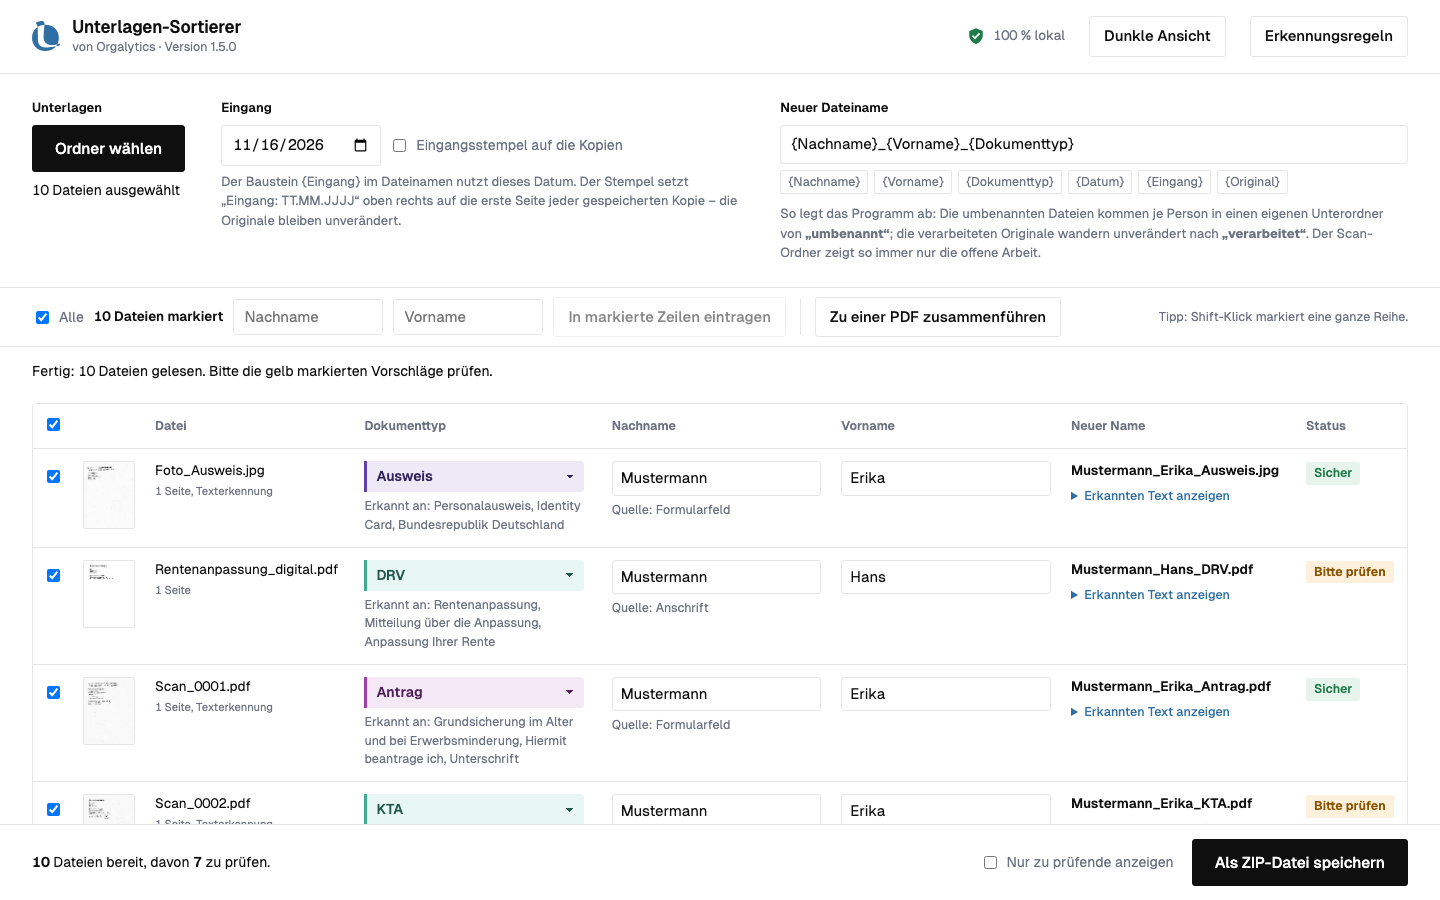
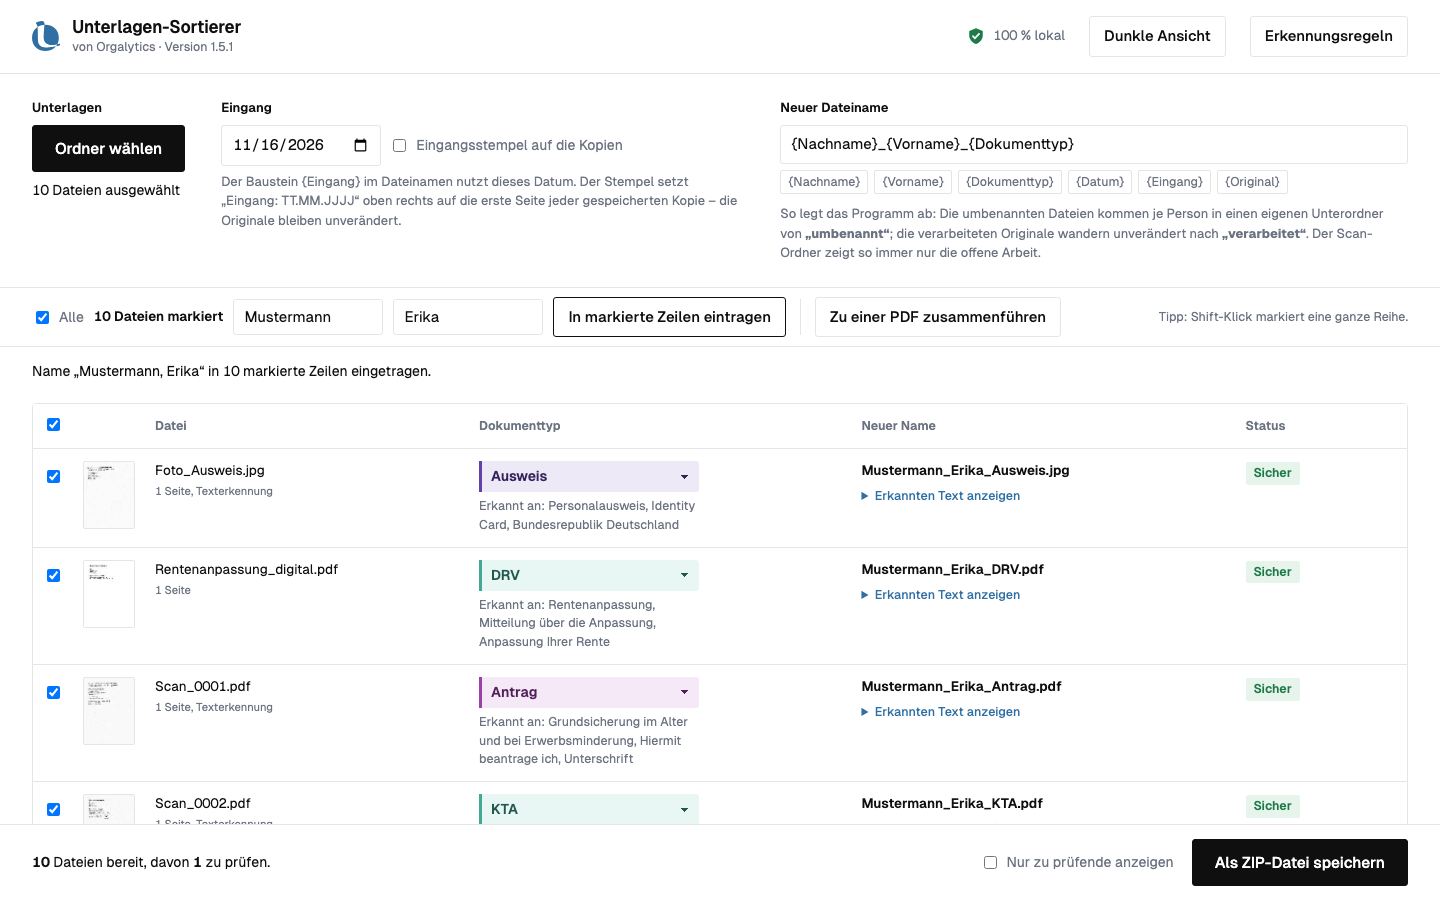
Neuer Standard: Fallname nur oben in der Werkzeugleiste (v1.5.1)
Auf Wunsch des Service Points ist die automatische Namenserkennung ab
Werk aus (regeln.js, namenErkennen: false): Der geprüfte Fallname wird
einmal oben eingetragen und per Klick auf die markierten Zeilen
angewendet; die Tabelle zeigt keine Namens-Spalten mehr (no-names/
namecol). Mit namenErkennen: true erscheinen Erkennung und Spalten
wieder – z. B. für Stapel mit mehreren Personen. Die e2e-Tests schalten
das Flag gezielt ein; neuer Default-Test prüft versteckte Spalten und
den Leisten-Weg. README-Screenshots zeigen den Standard-Ablauf.

199 Prüfungen, alle grün.

diff --git a/Unterlagen-Sortierer/Unterlagen-Sortierer.html b/Unterlagen-Sortierer/Unterlagen-Sortierer.html
@@ -145,7 +145,11 @@ button, input, select { font: inherit; color: inherit; }
 .empty p { margin: 8px 0; color: var(--ink); max-width: 58ch; font-size: 15.5px; }
 .empty p.sub { color: var(--muted); font-size: 14px; margin-top: 14px; }
 .tablewrap { overflow-x: auto; background: var(--sheet); border: 1px solid var(--line); border-radius: 4px; }
+/* Ohne Namenserkennung (regeln.js, Standard) kommt der Name nur aus der Werkzeugleiste –
+   die Namens-Spalten entfallen dann ganz */
+.tablewrap.no-names .namecol { display: none; }
 table { border-collapse: collapse; width: 100%; min-width: 980px; }
+.tablewrap.no-names table { min-width: 760px; }
 th { text-align: left; font-size: 12.5px; font-weight: 600; color: var(--muted); padding: 11px 10px; border-bottom: 1px solid var(--line); white-space: nowrap; background: var(--sheet); }
 td { padding: 12px 10px; border-bottom: 1px solid var(--line); vertical-align: top; }
 tr:last-child td { border-bottom: 0; }
@@ -393,7 +397,7 @@ dialog.split::backdrop { background: rgba(0, 0, 0, .45); }
     <table>
       <thead><tr>
         <th><input type="checkbox" id="all" checked aria-label="Alle auswählen"></th>
-        <th></th><th>Datei</th><th>Dokumenttyp</th><th>Nachname</th><th>Vorname</th><th>Neuer Name</th><th>Status</th>
+        <th></th><th>Datei</th><th>Dokumenttyp</th><th class="namecol">Nachname</th><th class="namecol">Vorname</th><th>Neuer Name</th><th>Status</th>
       </tr></thead>
       <tbody id="rows"></tbody>
     </table>
@@ -1613,7 +1617,7 @@ function renderRow(it) {
   }
 
   for (const f of ["nachname", "vorname"]) {
-    const c = td();
+    const c = td("namecol");
     if (ready || it.status === "applied") {
       const inp = document.createElement("input"); inp.type = "text"; inp.className = "name" + (f === "nachname" && !it.nachname ? " missing" : "");
       inp.value = it[f]; inp.setAttribute("aria-label", f === "nachname" ? "Nachname" : "Vorname"); inp.disabled = it.status === "applied";
@@ -1931,6 +1935,7 @@ function init() {
     $("#pick").textContent = "Dateien wählen";
     setStatus("Hinweis: Dieser Browser kann Ordner nicht direkt bearbeiten – die umbenannten Dateien werden als ZIP-Datei gespeichert. Mit Microsoft Edge oder Google Chrome arbeitet das Programm direkt im Ordner.");
   }
+  $("#tablewrap").classList.toggle("no-names", R.namenErkennen === false);
   $("#muster").value = store.get("muster", R.dateiname || "{Nachname}_{Vorname}_{Dokumenttyp}");
 
   for (const p of PLACEHOLDERS) {

diff --git a/Unterlagen-Sortierer/programm/regeln.js b/Unterlagen-Sortierer/programm/regeln.js
@@ -22,9 +22,11 @@ window.REGELN = {
   // Typ, wenn nichts passt
   unbekannt: "Sonstiges",
 
-  // Namen aus dem Dokument erkennen? false = die Tabelle zeigt keine erkannten
-  // Namen; es gilt nur der oben eingetragene Fallname ("In markierte Zeilen eintragen").
-  namenErkennen: true,
+  // Namen aus dem Dokument erkennen? Standard: false – der Name wird nur oben in der
+  // Werkzeugleiste eingetragen ("In markierte Zeilen eintragen"), die Tabelle zeigt
+  // keine Namens-Spalten. true = das Programm liest Namen aus den Dokumenten
+  // (z. B. wenn Unterlagen mehrerer Personen gemischt eingelesen werden).
+  namenErkennen: false,
 
   // Text vor dem erkannten Dokumenttext, wenn "Mit Prüfauftrag kopieren" gedrückt wird
   // (zum Einfügen in den DSGVO-konformen KI-Assistenten). Leer lassen = Knopf ausblenden.

diff --git a/Unterlagen-Sortierer/programm/version.js b/Unterlagen-Sortierer/programm/version.js
@@ -1,2 +1,2 @@
 // Wird von tools/release_bauen.sh aus der Datei VERSION erzeugt – nicht von Hand ändern.
-window.APP_VERSION = "1.5.0";
+window.APP_VERSION = "1.5.1";

diff --git a/tests/test_dateimodus.py b/tests/test_dateimodus.py
@@ -15,6 +15,8 @@ P = Pruefer("Dateimodus")
 
 async def run(pg, setup_js=None):
     await pg.goto(APP)
+    # Diese Teile testen die (per regeln.js zuschaltbare) Namenserkennung
+    await pg.evaluate("R.namenErkennen = true; document.querySelector('#tablewrap').classList.remove('no-names')")
     if setup_js: await pg.evaluate(setup_js)
     await pg.set_input_files("#filepick", DOCS)
     await pg.wait_for_function("state.items.length && !state.busy", timeout=240000)
@@ -25,7 +27,17 @@ async def main():
         b = await p.chromium.launch()
         pg = await b.new_page(accept_downloads=True, viewport={"width": 1440, "height": 1100})
         errs = []; pg.on("pageerror", lambda e: errs.append(str(e)))
-        # A) ohne Vorgabe
+        # 0) Standard ab Werk: KEINE Namenserkennung – Spalten versteckt, Name kommt aus der Leiste
+        await pg.goto(APP)
+        await pg.set_input_files("#filepick", DOCS[:1])
+        await pg.wait_for_function("state.items.length && !state.busy", timeout=240000)
+        P.check("Standard: Namens-Spalten versteckt", await pg.evaluate(
+            "document.querySelector('#tablewrap').classList.contains('no-names') && getComputedStyle(document.querySelector('td.namecol')).display === 'none'"))
+        P.check("Standard: Name fehlt bis zur Eingabe", await pg.evaluate("rowState(state.items[0])[0]") == "miss")
+        await pg.fill("#vNach", "Fallname"); await pg.fill("#vVor", "Erika")
+        await pg.click("#vApply")
+        P.check("Leisten-Name landet im Dateinamen", (await pg.evaluate("buildName(state.items[0])")).startswith("Fallname_Erika_"))
+        # A) mit eingeschalteter Erkennung: ohne Vorgabe
         for r in await run(pg):
             P.check(f"Typ {r['d']}", r['t'] == TYP[r['d']], f"→ {r['t']}")
             P.check(f"Name {r['d']}", r['n'] == PERS[r['d']], f"→ '{r['n']}' ({r['src']})")

diff --git a/tests/test_teilen.py b/tests/test_teilen.py
@@ -16,6 +16,7 @@ async def main():
 
         # A) Stapel-Scan laden; das Hintergrund-Lesen holt die restlichen Seiten und setzt den Hinweis
         await pg.goto(APP)
+        await pg.evaluate("R.namenErkennen = true")  # diese Teile testen die zuschaltbare Erkennung
         await pg.set_input_files("#filepick", [str(DOCS_DIR / "Scan_0007_Stapel.pdf")])
         await pg.wait_for_function("state.items.length && !state.busy", timeout=240000)
         P.check("Erster Durchgang liest nicht alles", await pg.evaluate("state.items[0].pagesRead < state.items[0].pages"))
@@ -86,6 +87,7 @@ async def main():
 
         # E) Zusammenführen: PDF + Foto → eine PDF mit 2 Seiten
         await pg.goto(APP)
+        await pg.evaluate("R.namenErkennen = true")  # diese Teile testen die zuschaltbare Erkennung
         await pg.set_input_files("#filepick", [str(DOCS_DIR / "Scan_0002.pdf"), str(DOCS_DIR / "Foto_Ausweis.jpg")])
         await pg.wait_for_function("state.items.length === 2 && !state.busy", timeout=240000)
         P.check("Werkzeugleiste zeigt Markierung", await pg.is_visible("#merge") and not await pg.evaluate("$('#merge').disabled")
@@ -116,6 +118,7 @@ async def main():
 
         # G) Sortieren: Seite an eine neue Position ziehen → neuer Trennvorschlag auf der neuen Reihenfolge
         await pg.goto(APP)
+        await pg.evaluate("R.namenErkennen = true")  # diese Teile testen die zuschaltbare Erkennung
         await pg.set_input_files("#filepick", [str(DOCS_DIR / "Scan_0007_Stapel.pdf")])
         await pg.wait_for_function("state.items.length && !state.busy", timeout=240000)
         await pg.wait_for_function("state.items[0].pagesRead === state.items[0].pages", timeout=240000)

diff --git a/tests/test_drehen.py b/tests/test_drehen.py
@@ -17,6 +17,7 @@ async def main():
 
         # A) Automatische Dreh-Erkennung: um 90 Grad verdrehter Scan wird trotzdem erkannt
         await pg.goto(APP)
+        await pg.evaluate("R.namenErkennen = true")  # diese Teile testen die zuschaltbare Erkennung
         await pg.set_input_files("#filepick", GEDREHT)
         await pg.wait_for_function("state.items.length && !state.busy", timeout=240000)
         it = await pg.evaluate("({t: state.items[0].type, n: state.items[0].nachname + ' ' + state.items[0].vorname, rot: (state.items[0].pageRot||[])[0]})")
@@ -49,6 +50,7 @@ async def main():
 
         # B) Drehen von Hand in der Vorschau (gerades Dokument)
         await pg.goto(APP)
+        await pg.evaluate("R.namenErkennen = true")  # diese Teile testen die zuschaltbare Erkennung
         await pg.set_input_files("#filepick", str(DOCS_DIR / "Rentenanpassung_digital.pdf"))
         await pg.wait_for_function("state.items.length && !state.busy", timeout=240000)
         await pg.click("button.thumbbox")
@@ -64,6 +66,7 @@ async def main():
 
         # C) Vorschau im Ordnermodus (Datei nur mit handle, ohne file-Objekt)
         await pg.goto(APP)
+        await pg.evaluate("R.namenErkennen = true")  # diese Teile testen die zuschaltbare Erkennung
         await pg.set_input_files("#filepick", DOCS)
         await pg.wait_for_function("state.items.length && !state.busy", timeout=240000)
         r = await pg.evaluate("""(async () => {

diff --git a/tests/test_mehrkunden.py b/tests/test_mehrkunden.py
@@ -31,6 +31,7 @@ async def main():
 
             # A) Ordnermodus: zwei Personen im selben Ordner → je Person ein Unterordner (Standard)
             await pg.goto(URL)
+            await pg.evaluate("R.namenErkennen = true")
             await pg.evaluate("async () => { const r = await navigator.storage.getDirectory(); try { await r.removeEntry('scans', { recursive: true }); } catch {} }")
             await put(pg, ["Scan_0002.pdf", "Scan_0004.pdf"])
             await pg.click("#pick")
@@ -77,6 +78,7 @@ async def main():
 
             # C) Dateimodus (ZIP): Unterordner je Person als Pfade im ZIP (Standard)
             await pg.goto(APP_FILE)
+            await pg.evaluate("R.namenErkennen = true")
             await pg.set_input_files("#filepick", [str(DOCS_DIR / "Scan_0002.pdf"), str(DOCS_DIR / "Scan_0004.pdf")])
             await pg.wait_for_function("state.items.length === 2 && !state.busy", timeout=240000)
             async with pg.expect_download() as dl:

diff --git a/tests/test_ordnermodus.py b/tests/test_ordnermodus.py
@@ -18,6 +18,7 @@ P = Pruefer("Ordnermodus")
 
 async def fresh(pg, nomove=False):
     await pg.goto(URL)
+    await pg.evaluate("R.namenErkennen = true")
     await pg.evaluate("""async (docs) => { const root = await navigator.storage.getDirectory();
       try { await root.removeEntry('scans', { recursive: true }); } catch {}
       const d = await root.getDirectoryHandle('scans', { create: true });

diff --git a/CLAUDE.md b/CLAUDE.md
@@ -94,8 +94,11 @@ VERSION            Versionsnummer für das Release-ZIP
   am aufgedruckten Kürzel erkannt („Anlage EK“). Begriffe so wählen, dass sich stark-Begriffe
   zweier Typen nicht doppeln (sonst nie „sicher“); Belehrungs-Wörter wie „Widerspruch“ gehören
   beim Typ Widerspruch nur als Phrase („lege ich Widerspruch“) in stark, sonst feuert er auf
-  jedem Bescheid. `namenErkennen: false` (regeln.js) schaltet findName je Kunde ab (nur noch
-  Fallname über die Werkzeugleiste); `pruefauftrag` ist der Vorspann für „Mit Prüfauftrag
+  jedem Bescheid. `namenErkennen` (regeln.js) steuert findName: STANDARD ist false (Tims
+  Default seit 1.5.1) – der Name kommt NUR aus der Werkzeugleiste, die Tabelle versteckt die
+  Namens-Spalten (`#tablewrap.no-names` + `.namecol`); true schaltet die Erkennung samt
+  Spalten ein (z. B. Grundsicherung mit mehreren Personen je Stapel). Die e2e-Tests setzen
+  das Flag nach jedem goto selbst. `pruefauftrag` ist der Vorspann für „Mit Prüfauftrag
   kopieren“ (leer = Knopf versteckt).
 - **findName (Reihenfolge):** Formularfelder
   („Name, Vorname:“; „Familienname/Nachname“ und „Vorname(n)“ auch mit Wert in der NÄCHSTEN Zeile

diff --git a/CHANGELOG.md b/CHANGELOG.md
@@ -2,6 +2,15 @@
 
 Alle nennenswerten Änderungen am Unterlagen-Sortierer werden hier festgehalten.
 
+## 1.5.1 – 2026-11-16
+
+- **Name nur noch oben – neuer Standard:** Der Fallname wird einmal in der
+  Werkzeugleiste eingetragen und per Klick auf die markierten Zeilen
+  angewendet; die Tabelle zeigt keine Namens-Spalten mehr. Die
+  automatische Namenserkennung aus den Dokumenten bleibt als Option für
+  andere Einsatzfälle (regeln.js, `namenErkennen: true` – dann erscheinen
+  die Spalten wieder).
+
 ## 1.5.0 – 2026-11-16
 
 Die Dokumenttypen kommen jetzt direkt aus der Praxis – abgestimmt mit den
